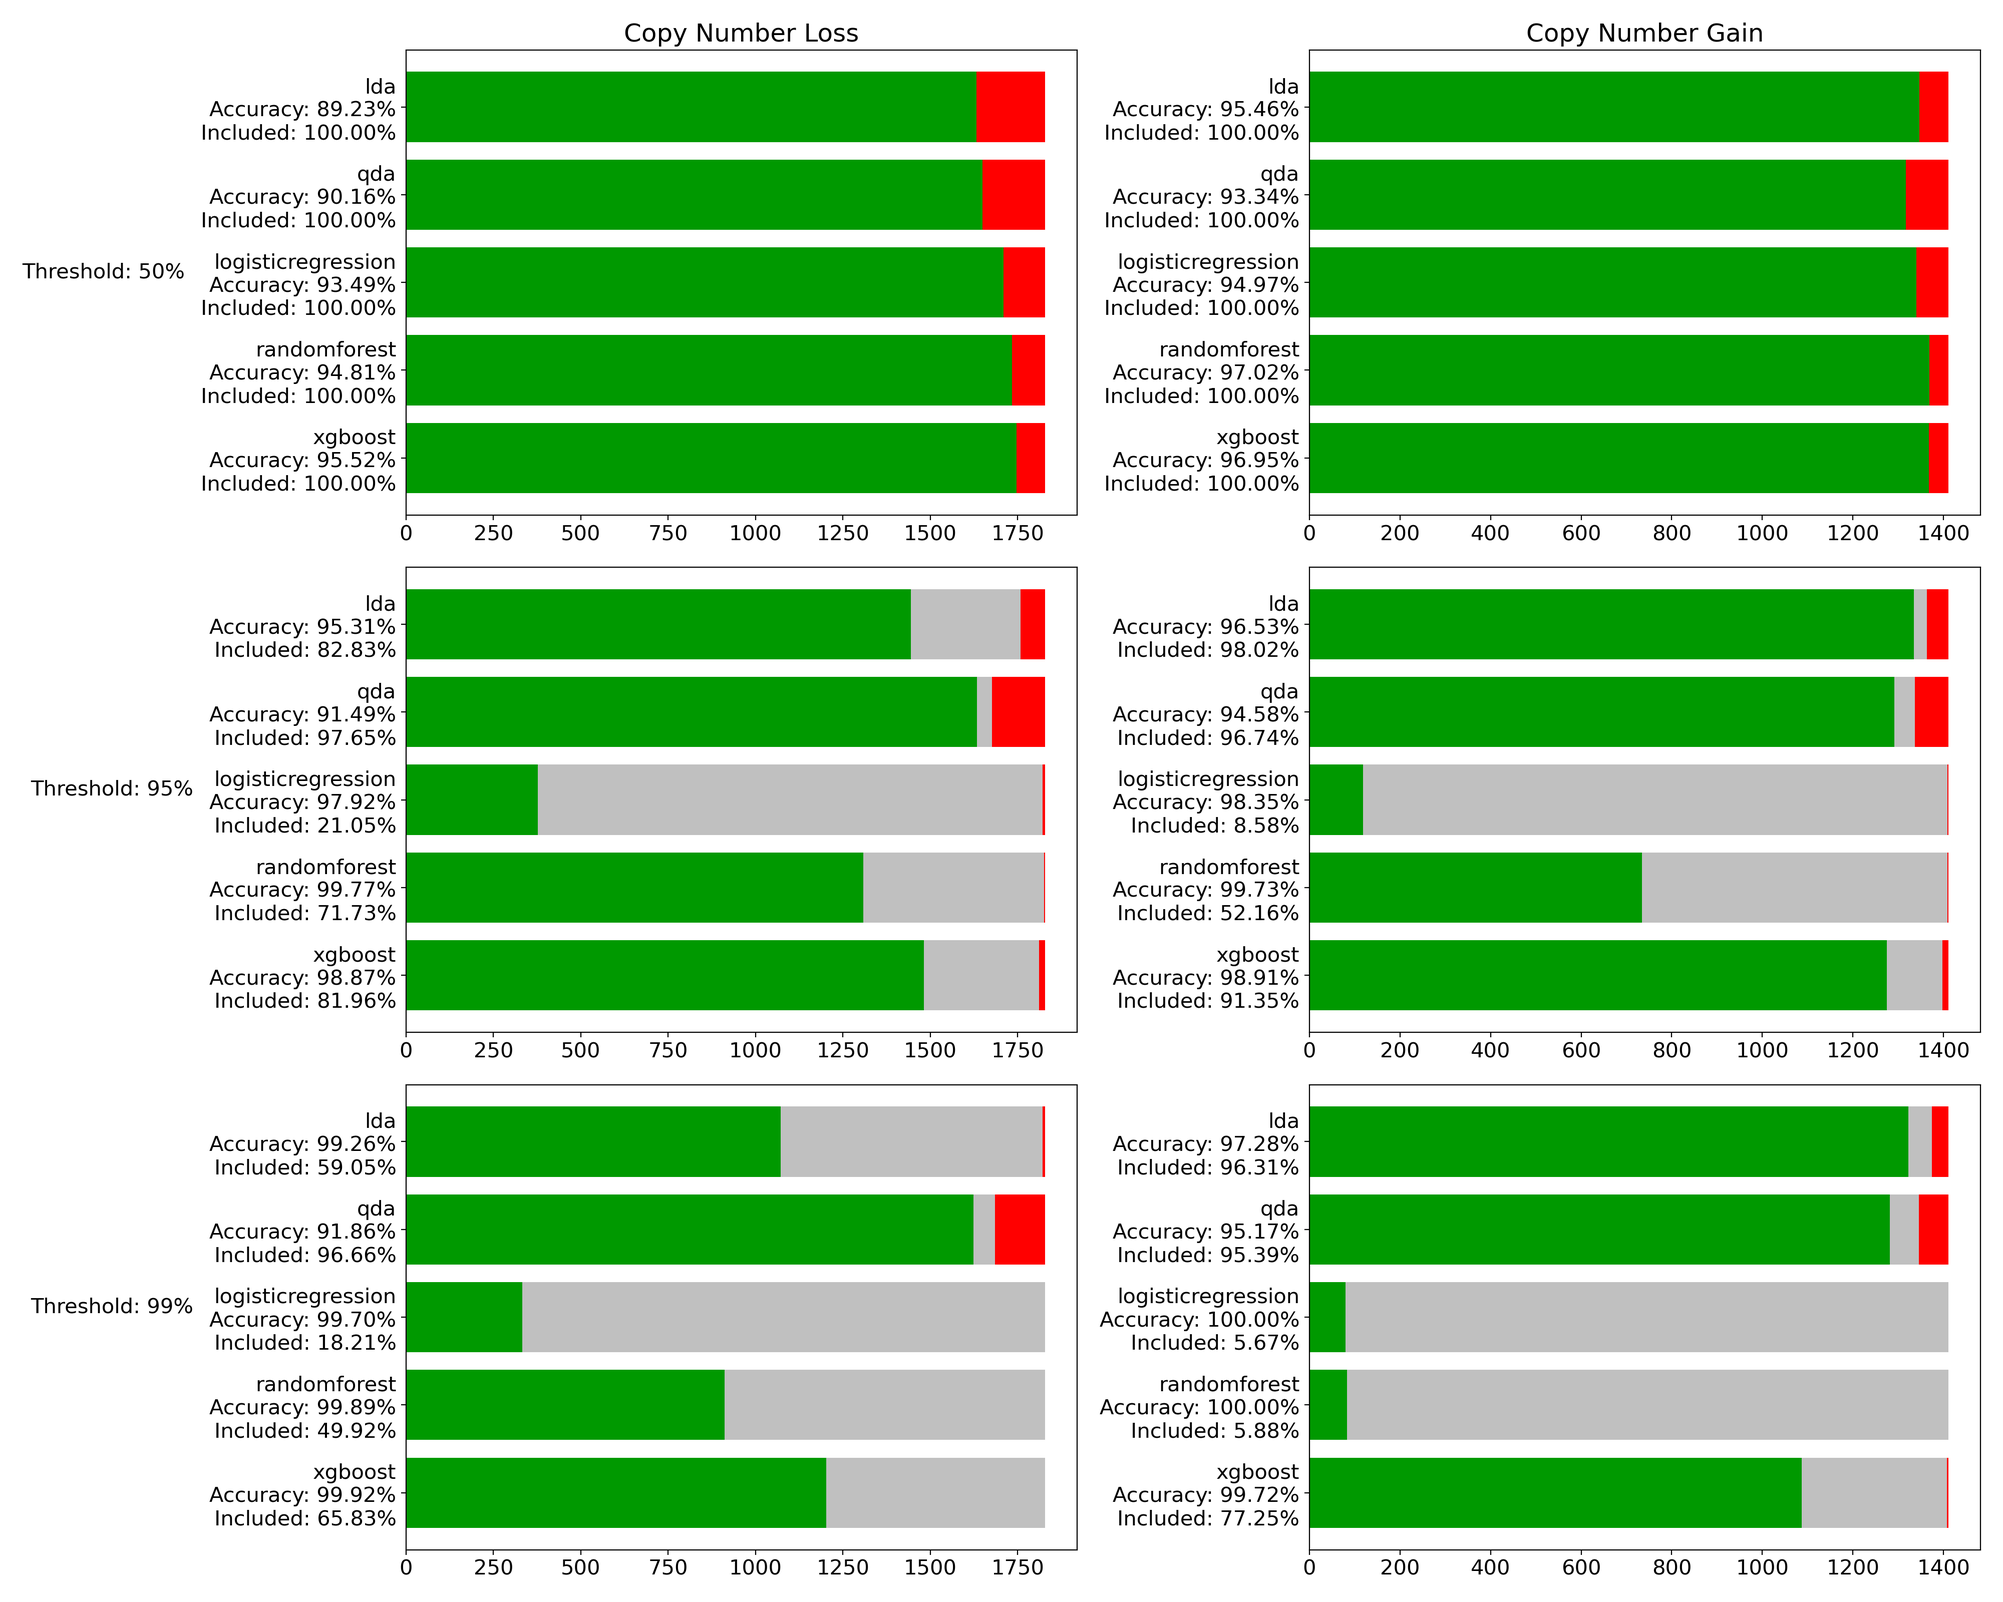
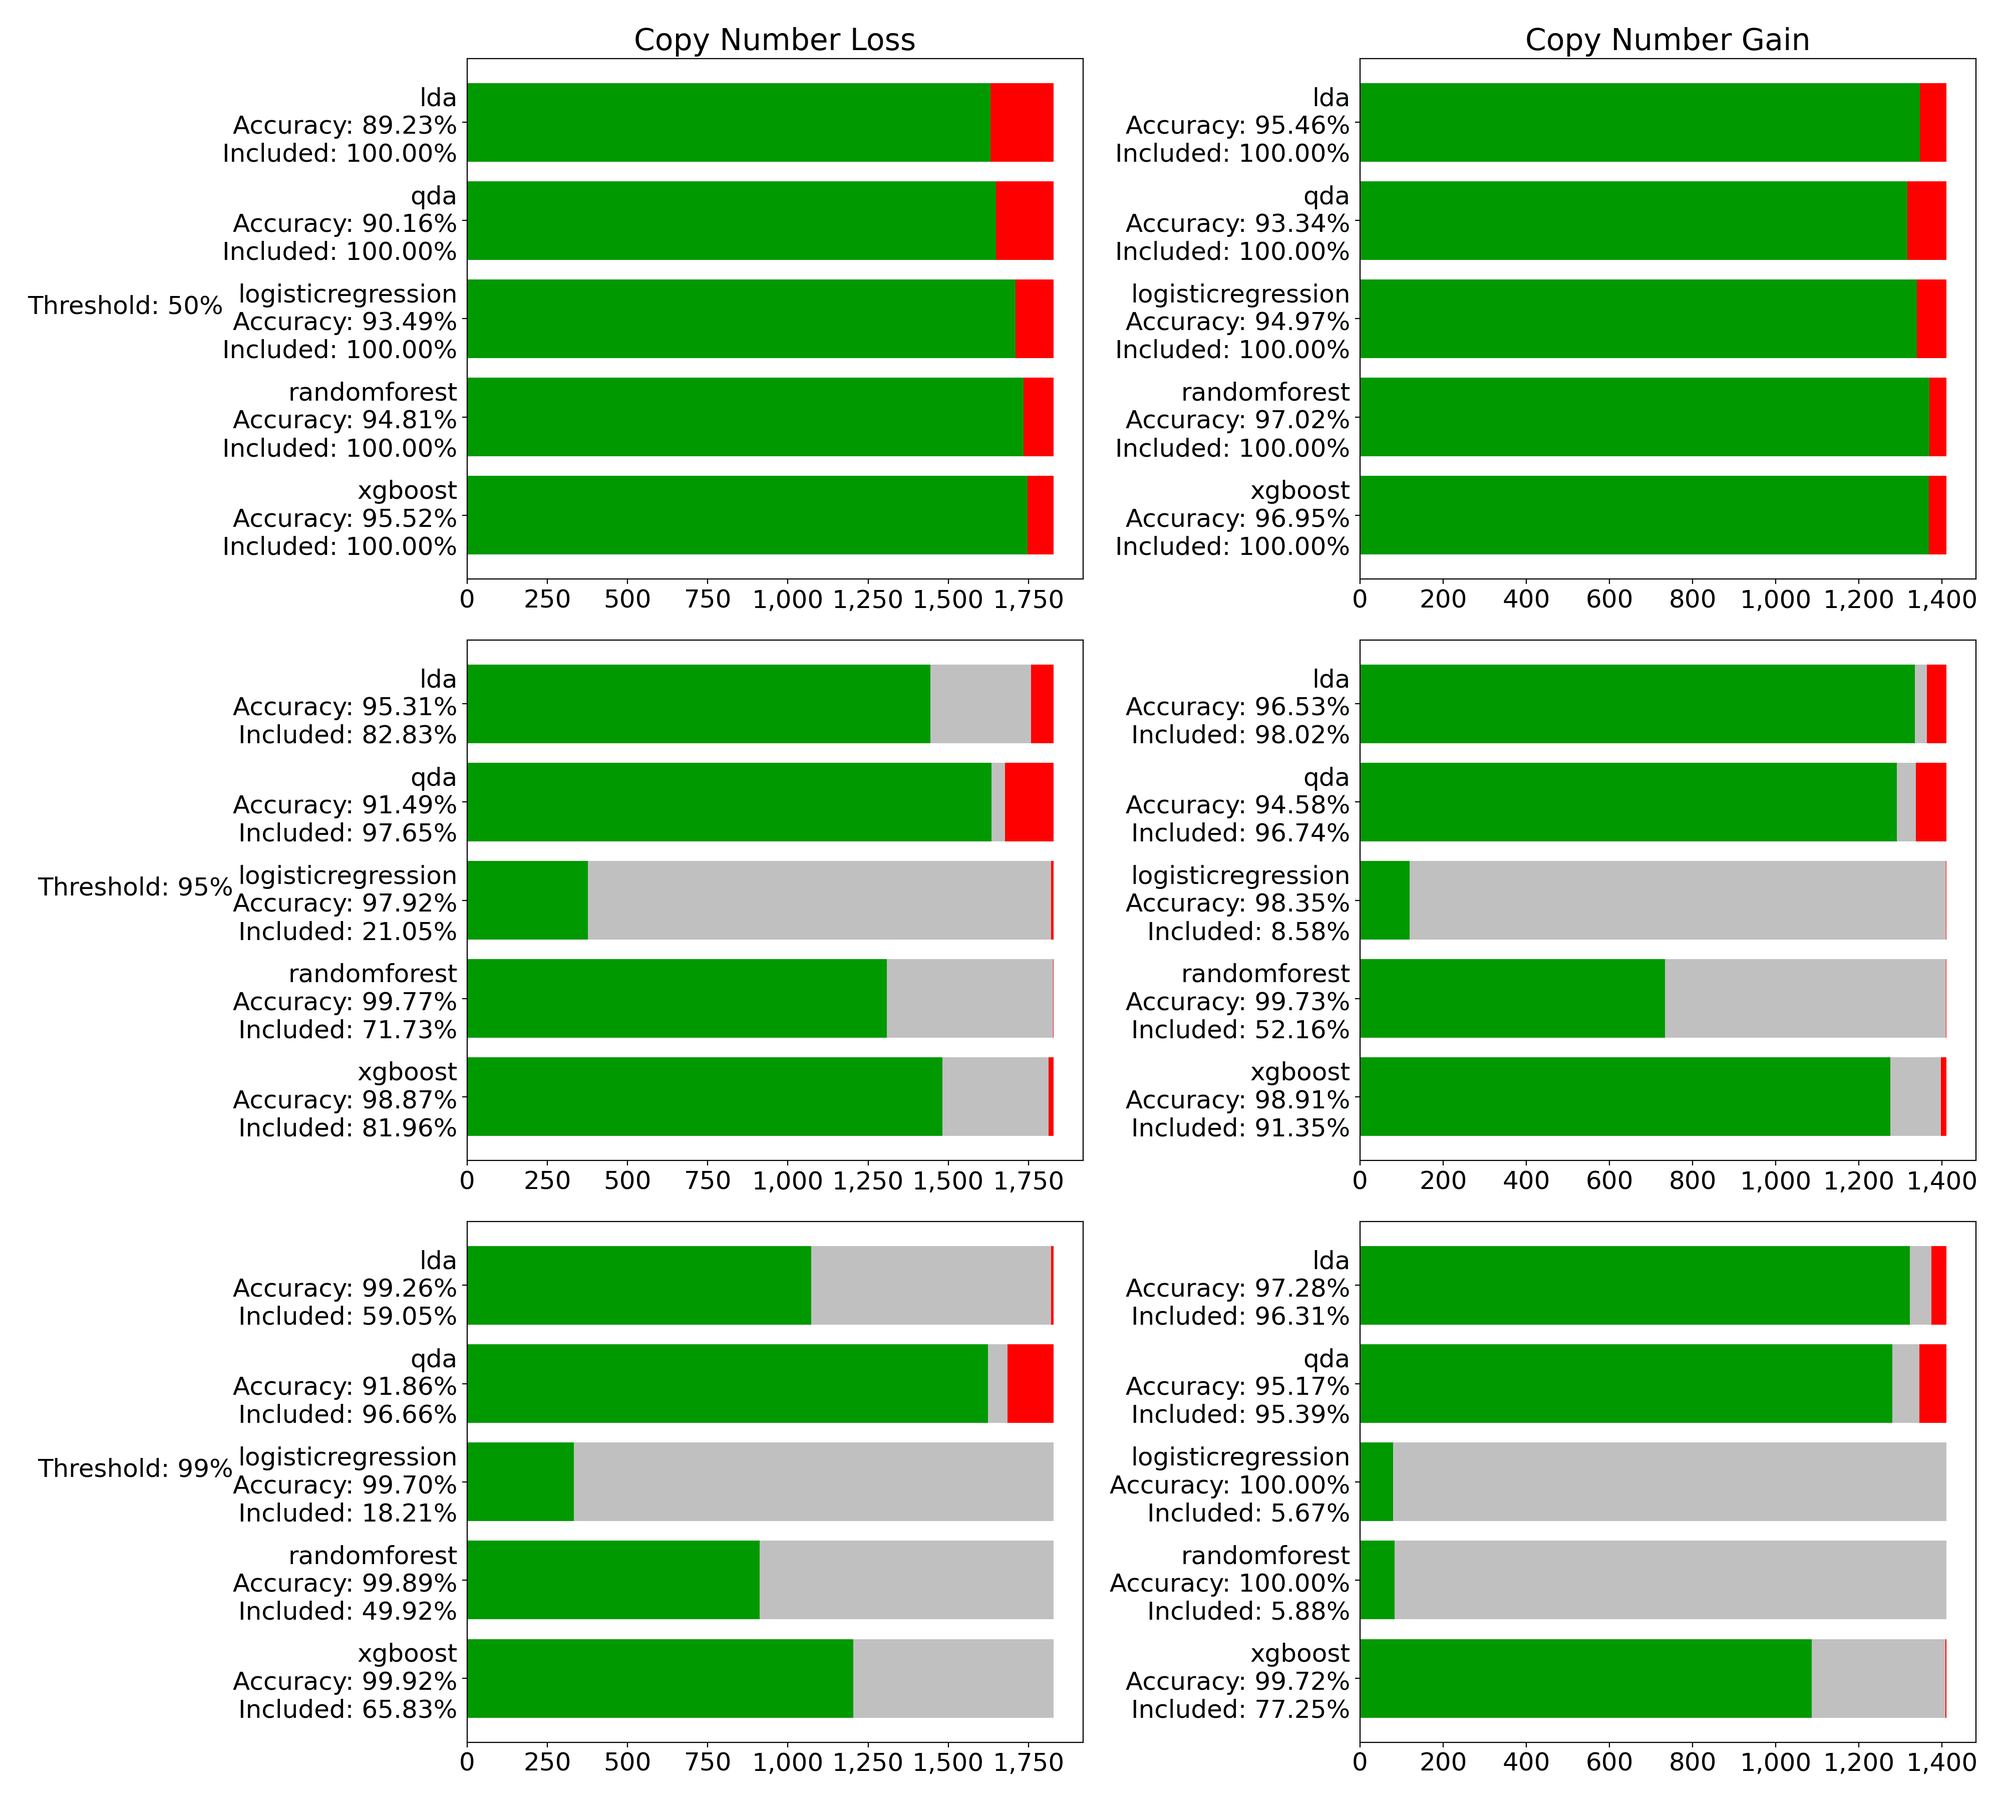
plots formatting

diff --git a/scripts/plots/bars.py b/scripts/plots/bars.py
@@ -21,13 +21,16 @@ from scripts.plots.bar_update import bar_update_results
 from matplotlib import rcParams
 from scripts.constants import DPI
 
-rcParams.update({'font.size': 15})
+rcParams.update({'font.size': 18})
 
 # %%
+# dataset = 'validation'
+# scaling = 'robust'
+
 dataset = snakemake.params.dataset
 scaling = snakemake.wildcards.scaling
 
-fig, ax = plt.subplots(3, 2, figsize=(20, 16))
+fig, ax = plt.subplots(3, 2, figsize=(20, 18))
 
 for i, threshold in enumerate([0.5, 0.95, 0.99]):
     for j, cnv_type in enumerate(['loss', 'gain']):
@@ -43,6 +46,8 @@ for i, threshold in enumerate([0.5, 0.95, 0.99]):
                                                color=["#009900", "#C0C0C0", "#FF0000"])
         ax[i, j].get_legend().remove()
         ax[i, j].set_ylabel('')
+        
+        ax[i, j].set_xticklabels(['{:,d}'.format(int(i)) for i in ax[i, j].get_xticks()])
 
 ax[0, 0].set_title('Copy Number Loss')
 ax[0, 1].set_title('Copy Number Gain')
@@ -63,7 +68,7 @@ models  = ['lda', 'qda', 'logisticregression', 'randomforest', 'xgboost']
 cnv_type = ['loss', 'gain']
 
 
-fig, ax = plt.subplots(3, 2, figsize=(20, 16))
+fig, ax = plt.subplots(3, 2, figsize=(20, 18))
 
 for i, threshold in enumerate([0.5, 0.95, 0.99]):
     for j, cnv_type in enumerate(['loss', 'gain']):

diff --git a/scripts/plots/results_isv_acmg_comparison.py b/scripts/plots/results_isv_acmg_comparison.py
@@ -23,13 +23,13 @@ import matplotlib.pyplot as plt
 from matplotlib import rcParams
 from scripts.constants import DPI
 
-rcParams.update({'font.size': 12})
+rcParams.update({'font.size': 15})
 
 # %%
 dataset = snakemake.wildcards.dataset    
 # dataset = 'validation'
 
-fig, ax = plt.subplots(2, 1, figsize=(12, 7))
+fig, ax = plt.subplots(2, 1, figsize=(12, 8))
 
 for i, cnv_type in enumerate(['loss', 'gain']):
     results = {'label': [], 'correct': [], 'uncertain': [], 'incorrect': []}
@@ -53,11 +53,15 @@ for i, cnv_type in enumerate(['loss', 'gain']):
                                            color=["#009900", "#C0C0C0", "#FF0000"])
     ax[i].get_legend().remove()
     ax[i].set_ylabel('')
+    
+    ticks = ax[i].get_xticks()
+    ax[i].set_xticklabels(labels=['{:,d}'.format(int(i)) for i in ticks])
+    
 
 ax[0].set_title('Copy Number Loss')
 ax[1].set_title('Copy Number Gain')
 
-fig.suptitle(dataset.capitalize(), fontsize=20)
+# fig.suptitle(dataset.capitalize(), fontsize=20)
 fig.tight_layout()
 
 fig.savefig(snakemake.output.isv_acmg, dpi=DPI)

diff --git a/scripts/plots/results_data_overview.py b/scripts/plots/results_data_overview.py
@@ -25,7 +25,7 @@ from scripts.ml.prepare_df import prepare_df
 from scipy.stats import pointbiserialr
 from scripts.constants import DPI
 
-rcParams.update({'font.size': 15})
+rcParams.update({'font.size': 18})
 
 # %%
 fig, ax = plt.subplots(1, 2, figsize=(25, 14))
@@ -46,6 +46,7 @@ for i, cnv_type in enumerate(['loss', 'gain']):
     ax[i].set_xlabel('log(value)')
     ax[i].set_ylabel('')
     ax[i].set_title('copy number ' + cnv_type)
+    ax[i].legend(title='Clinical Significance')
 
 fig.tight_layout()
 

diff --git a/scripts/plots/results_violins.py b/scripts/plots/results_violins.py
@@ -25,7 +25,7 @@ from scripts.constants import modelfmt
 from scripts.constants import DPI
 
 
-rcParams.update({'font.size': 12})
+rcParams.update({'font.size': 15})
 
 # %%
 fig, ax = plt.subplots(2, 1, figsize=(12, 12))
@@ -68,7 +68,7 @@ for i, cnv_type in enumerate(['loss', 'gain']):
     newlabel = []
     for l in labelorder:
         c = sum(res.label == l)
-        newlabel.append(f'{l}\n({c})')
+        newlabel.append('{}\n({:,d})'.format(l, c))
     
     ax[i].set_xticklabels(newlabel)
     

diff --git a/scripts/plots/results_tsne.py b/scripts/plots/results_tsne.py
@@ -22,7 +22,7 @@ from scripts.ml.prepare_df import prepare_df
 from sklearn.manifold import TSNE
 from scripts.constants import DPI
 
-rcParams.update({'font.size': 15})
+rcParams.update({'font.size': 18})
 
 
 # %% TSNE
